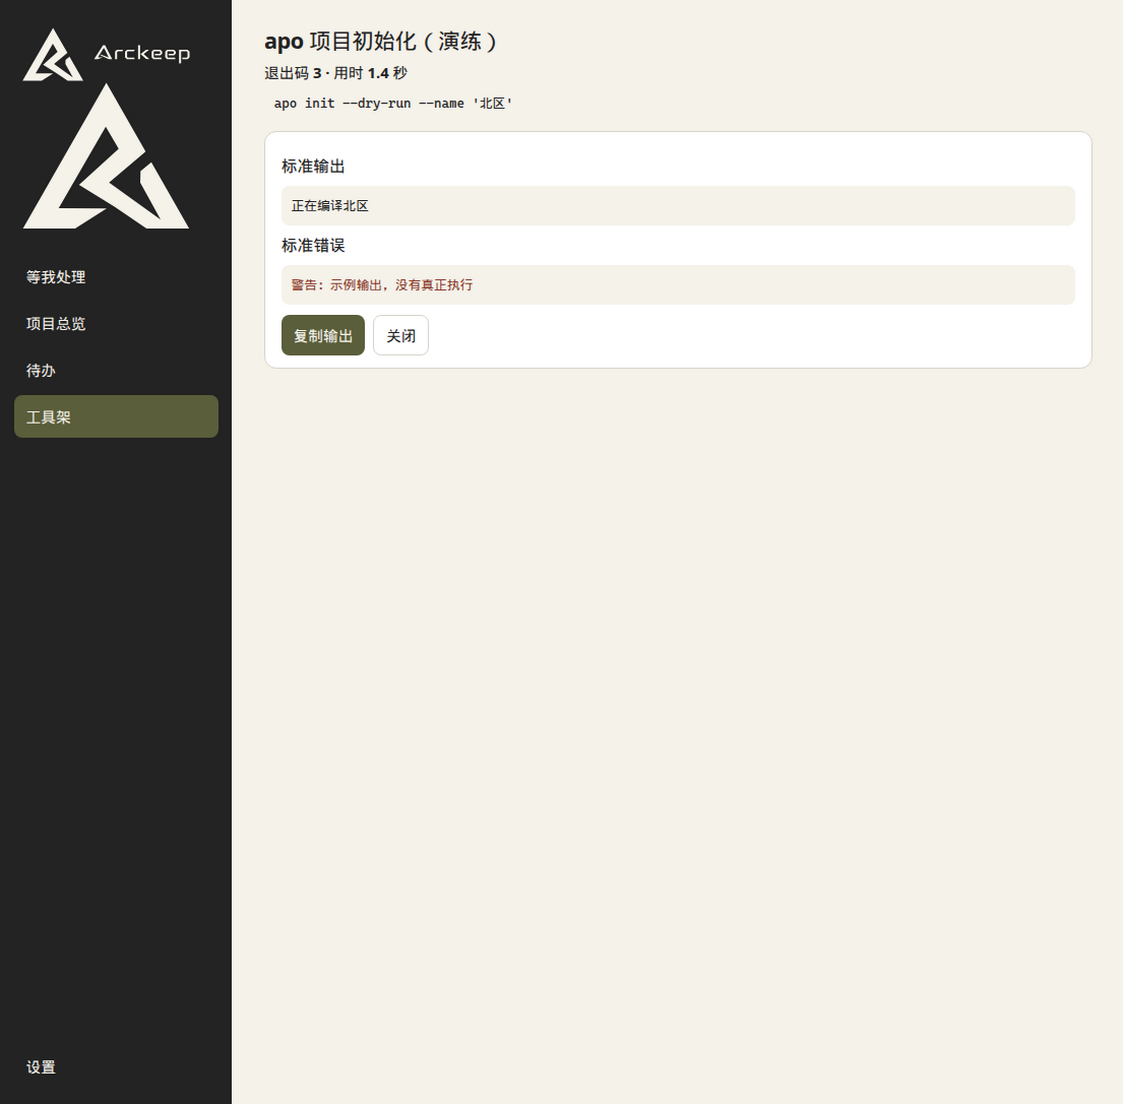
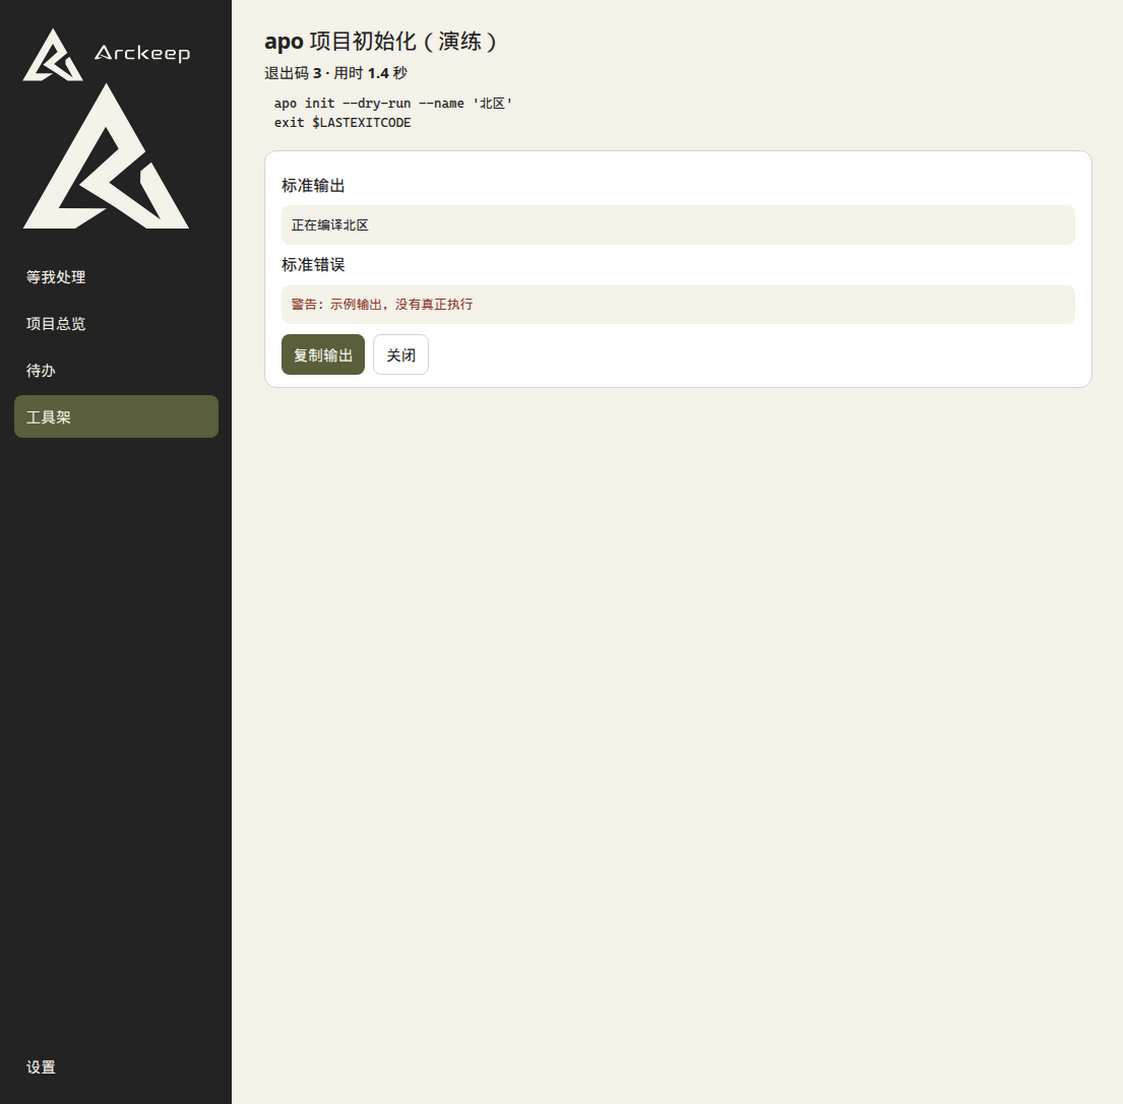
Fix Windows PowerShell quote passing and exit codes
Windows PowerShell 5.1 turns a native argument of one double quote into an empty argv entry, and powershell.exe reports native failures as exit code 1. Quote those values as CommandLineToArgvW tokens, run the readable script with -EncodedCommand, and finish with exit $LASTEXITCODE. Live tests cover powershell.exe and pwsh when pwsh is installed.

Changed region(s): [[0.2493, 0.0924, 0.4363, 0.3388]]

diff --git a/test/tool-runner.test.ts b/test/tool-runner.test.ts
@@ -1,4 +1,4 @@
-import { spawn } from 'node:child_process'
+import { spawn, spawnSync } from 'node:child_process'
 import { existsSync, mkdtempSync, readFileSync, rmSync, writeFileSync } from 'node:fs'
 import { tmpdir } from 'node:os'
 import path from 'node:path'
@@ -106,9 +106,30 @@ function expectedData(shell: ShellKind, payload: string): string {
   return out
 }
 
-async function assertPayloadIsData(shell: ShellKind, payload: string, marker: string): Promise<void> {
+function windowsPowerShellHosts(): string[] {
+  const hosts = ['powershell.exe']
+  const found = spawnSync('where.exe', ['pwsh'], { encoding: 'utf8', windowsHide: true })
+  if (found.status !== 0) return hosts
+  for (const line of found.stdout.split(/\r?\n/)) {
+    const file = line.trim()
+    if (!file || hosts.some(host => host.toLowerCase() === file.toLowerCase())) continue
+    const probe = spawnSync(file, ['-NoProfile', '-NonInteractive', '-Command', 'exit 0'], {
+      windowsHide: true,
+      timeout: 20_000
+    })
+    if (probe.status === 0) hosts.push(file)
+  }
+  return hosts
+}
+
+async function assertPayloadIsData(
+  shell: ShellKind,
+  payload: string,
+  marker: string,
+  env?: NodeJS.ProcessEnv
+): Promise<void> {
   const script = expandCommand(roundTripTemplate, { payload }, shell)
-  const plan = planShell(shell, script)
+  const plan = planShell(shell, script, env)
   const cwd = mkdtempSync(path.join(tmpdir(), 'arckeep-shell-'))
   const result = await runPlan(plan, cwd)
   const detail = `${shell}\n${script}\nstdout=${JSON.stringify(result.stdout)}\nstderr=${JSON.stringify(result.stderr)}\ncode=${result.code} error=${result.error ?? ''}`
@@ -123,24 +144,31 @@ const shells: ShellKind[] = ['cmd', 'powershell', 'git-bash']
 
 describe('live shell injection', () => {
   for (const shell of shells) {
-    const available = shell === 'git-bash'
-      ? resolveBash(process.env, process.platform) !== null && (process.platform !== 'win32' || existsSync(resolveBash(process.env, process.platform) ?? ''))
-      : process.platform === 'win32'
+    const hosts = shell === 'powershell' && process.platform === 'win32' ? windowsPowerShellHosts() : [shell]
+    for (const host of hosts) {
+      const label = shell === 'powershell' && process.platform === 'win32' ? `powershell ${path.basename(host)}` : shell
+      const env = shell === 'powershell' && process.platform === 'win32'
+        ? { ...process.env, ARCKEEP_POWERSHELL: host }
+        : undefined
+      const available = shell === 'git-bash'
+        ? resolveBash(process.env, process.platform) !== null && (process.platform !== 'win32' || existsSync(resolveBash(process.env, process.platform) ?? ''))
+        : process.platform === 'win32'
 
-    it.skipIf(!available)(`${shell} keeps hostile parameters as data`, async () => {
-      for (const [index, build] of hostilePayloads.entries()) {
-        const marker = markerPath(`${shell}-${index}`)
-        await assertPayloadIsData(shell, build(marker), marker)
-      }
-    }, 60_000)
+      it.skipIf(!available)(`${label} keeps hostile parameters as data`, async () => {
+        for (const [index, build] of hostilePayloads.entries()) {
+          const marker = markerPath(`${label}-${index}`)
+          await assertPayloadIsData(shell, build(marker), marker, env)
+        }
+      }, 60_000)
 
-    it.skipIf(!available)(`${shell} reports exit code 3`, async () => {
-      const plan = planShell(shell, 'node -e "process.exit(3)"')
-      const cwd = mkdtempSync(path.join(tmpdir(), 'arckeep-exit-'))
-      const result = await runPlan(plan, cwd)
-      expect(result.code, result.stderr).toBe(3)
-      rmSync(cwd, { recursive: true, force: true })
-    }, 20_000)
+      it.skipIf(!available)(`${label} reports exit code 3`, async () => {
+        const plan = planShell(shell, 'node -e "process.exit(3)"', env)
+        const cwd = mkdtempSync(path.join(tmpdir(), 'arckeep-exit-'))
+        const result = await runPlan(plan, cwd)
+        expect(result.code, `${result.stderr}\n${result.stdout}`).toBe(3)
+        rmSync(cwd, { recursive: true, force: true })
+      }, 20_000)
+    }
   }
 
   it('streams stdout and stderr', async () => {

diff --git a/test/tool-quote.test.ts b/test/tool-quote.test.ts
@@ -2,9 +2,11 @@ import { describe, expect, it } from 'vitest'
 import { createRunGate, expandUrl, formatDuration } from '../src/shared/tools/preview.js'
 import {
   expandCommand,
+  powershellLaunchScript,
   quoteBashArg,
   quoteCmdArg,
-  quotePowerShellArg
+  quotePowerShellArg,
+  windowsNativeArgumentToken
 } from '../src/shared/tools/quote.js'
 
 const samples = [
@@ -16,6 +18,65 @@ const samples = [
   '%PATH%',
   'line\nsecond'
 ]
+
+/** Mirrors Windows PowerShell 5.1 NativeCommandParameterBinder.NeedQuotes + append. */
+function legacyAppend(arg: string): string {
+  if (!arg) return ''
+  let needQuotes = false
+  let followingBackslash = false
+  let quoteCount = 0
+  for (const ch of arg) {
+    if (ch === '"' && !followingBackslash) quoteCount += 1
+    else if (/\s/.test(ch) && quoteCount % 2 === 0) needQuotes = true
+    followingBackslash = ch === '\\'
+  }
+  if (!needQuotes) return arg
+  let extra = ''
+  for (let i = arg.length - 1; i >= 0 && arg[i] === '\\'; i -= 1) extra += '\\'
+  return `"${arg}${extra}"`
+}
+
+/** CommandLineToArgvW for one already-split command line (no program name). */
+function commandLineToArgv(commandLine: string): string[] {
+  const args: string[] = []
+  let i = 0
+  while (i < commandLine.length) {
+    while (commandLine[i] === ' ' || commandLine[i] === '\t') i += 1
+    if (i >= commandLine.length) break
+    let current = ''
+    let inQuotes = false
+    while (i < commandLine.length) {
+      let slashes = 0
+      while (commandLine[i] === '\\') {
+        slashes += 1
+        i += 1
+      }
+      if (commandLine[i] === '"') {
+        current += '\\'.repeat(Math.floor(slashes / 2))
+        if (slashes % 2 === 0) {
+          if (inQuotes && commandLine[i + 1] === '"') {
+            current += '"'
+            i += 2
+            continue
+          }
+          inQuotes = !inQuotes
+        } else {
+          current += '"'
+        }
+        i += 1
+        continue
+      }
+      current += '\\'.repeat(slashes)
+      if (i >= commandLine.length) break
+      const ch = commandLine[i]
+      if (!inQuotes && (ch === ' ' || ch === '\t')) break
+      current += ch
+      i += 1
+    }
+    args.push(current)
+  }
+  return args
+}
 
 describe('shell quoting', () => {
   it('quotes cmd metacharacters as data', () => {
@@ -32,12 +93,30 @@ describe('shell quoting', () => {
   it('quotes PowerShell with single quotes', () => {
     expect(quotePowerShellArg('& echo pwned')).toBe("'& echo pwned'")
     expect(quotePowerShellArg('; rm -rf x')).toBe("'; rm -rf x'")
-    expect(quotePowerShellArg('"')).toBe(`'"'`)
+    expect(quotePowerShellArg('"')).toBe(`'"\\""'`)
     expect(quotePowerShellArg('$(whoami)')).toBe("'$(whoami)'")
     expect(quotePowerShellArg('`whoami`')).toBe("'`whoami`'")
     expect(quotePowerShellArg('%PATH%')).toBe("'%PATH%'")
     expect(quotePowerShellArg("line\nsecond")).toBe("'line\nsecond'")
     expect(quotePowerShellArg("it's")).toBe("'it''s'")
+    expect(powershellLaunchScript('apo init --name \'demo\'')).toBe("apo init --name 'demo'\nexit $LASTEXITCODE")
+    expect(powershellLaunchScript('apo init', 'pwsh.exe')).toBe(
+      "$PSNativeCommandArgumentPassing = 'Legacy'\napo init\nexit $LASTEXITCODE"
+    )
+    expect(powershellLaunchScript(powershellLaunchScript('apo init', 'pwsh'), 'powershell.exe')).toBe(
+      'apo init\nexit $LASTEXITCODE'
+    )
+  })
+
+  it('keeps a literal double quote through the Windows PowerShell 5.1 native binder', () => {
+    for (const value of ['"', 'a "b', 'say "hello"', '""', 'trail\\', 'a\\" b']) {
+      const quoted = quotePowerShellArg(value)
+      expect(quoted.startsWith("'") && quoted.endsWith("'")).toBe(true)
+      const embedded = quoted.slice(1, -1).replace(/''/g, "'")
+      const commandLine = legacyAppend(embedded)
+      expect(commandLineToArgv(commandLine), value).toEqual([value])
+    }
+    expect(windowsNativeArgumentToken('"')).toBe('"\\""')
   })
 
   it('quotes bash with single quotes', () => {

diff --git a/src/shared/tools/quote.ts b/src/shared/tools/quote.ts
@@ -33,9 +33,70 @@ export function quoteCmdArg(value: string): string {
   return `"${body}"`
 }
 
+/**
+ * Windows PowerShell 5.1 appends a native argument as raw command-line text.
+ * A value whose only character is `"` is appended as `"`, and CommandLineToArgvW
+ * reads that as an empty argument. Emit a token the legacy binder copies through
+ * unchanged (`NeedQuotes` is false) and that CommandLineToArgvW parses back to
+ * the original value. pwsh must run with `$PSNativeCommandArgumentPassing = 'Legacy'`
+ * or it would pass this token through ArgumentList literally.
+ */
+export function windowsNativeArgumentToken(value: string): string {
+  if (value.length === 0) return '""'
+  let quote = false
+  for (const ch of value) {
+    if (ch === ' ' || ch === '\t' || ch === '\n' || ch === '\r' || ch === '"') {
+      quote = true
+      break
+    }
+  }
+  if (!quote) return value
+  let out = '"'
+  let backslashes = 0
+  for (const ch of value) {
+    if (ch === '\\') {
+      backslashes += 1
+      continue
+    }
+    if (ch === '"') {
+      out += '\\'.repeat(backslashes * 2 + 1)
+      out += '"'
+      backslashes = 0
+      continue
+    }
+    if (backslashes > 0) {
+      out += '\\'.repeat(backslashes)
+      backslashes = 0
+    }
+    out += ch
+  }
+  if (backslashes > 0) out += '\\'.repeat(backslashes * 2)
+  out += '"'
+  return out
+}
+
+const POWERSHELL_LEGACY_LINE = "$PSNativeCommandArgumentPassing = 'Legacy'"
+const POWERSHELL_EXIT_LINE = 'exit $LASTEXITCODE'
+
+/** Human-readable script that powershell.exe / pwsh actually executes. */
+export function powershellLaunchScript(userScript: string, executable = 'powershell.exe'): string {
+  const exitSuffix = `\n${POWERSHELL_EXIT_LINE}`
+  const legacyPrefix = `${POWERSHELL_LEGACY_LINE}\n`
+  let body = userScript
+  if (body.endsWith(exitSuffix)) {
+    body = body.slice(0, -exitSuffix.length)
+    if (body.startsWith(legacyPrefix)) body = body.slice(legacyPrefix.length)
+  }
+  const base = executable.replace(/^.*[\\/]/, '').toLowerCase()
+  const core = base === 'pwsh' || base === 'pwsh.exe'
+  return `${core ? legacyPrefix : ''}${body}${exitSuffix}`
+}
+
 /** PowerShell single-quoted string. Only `'` is special, and it is doubled. */
 export function quotePowerShellArg(value: string): string {
-  return `'${value.replace(/\0/g, '').replace(/'/g, "''")}'`
+  const cleaned = value.replace(/\0/g, '')
+  const embedded = cleaned.includes('"') ? windowsNativeArgumentToken(cleaned) : cleaned
+  return `'${embedded.replace(/'/g, "''")}'`
 }
 
 /** Bash single-quoted string. Embedded quotes use the `'\''` break. */

diff --git a/test/tool-validate.test.ts b/test/tool-validate.test.ts
@@ -3,6 +3,7 @@ import { describe, expect, it } from 'vitest'
 import { toolShelfExampleText } from '../src/main/tool-assets.js'
 import { validateToolShelfText } from '../src/main/tool-validate.js'
 import { indexToLocation } from '../src/shared/tools/locate.js'
+import { powershellLaunchScript } from '../src/shared/tools/quote.js'
 import { buildPreview } from '../src/shared/tools/preview.js'
 import { cmdScriptFromPlan, planShell, powershellScriptFromPlan } from '../src/main/tool-launch.js'
 
@@ -24,7 +25,7 @@ describe('tool shelf schema', () => {
     expect(text).toContain('apo init --dry-run')
     const apo = result.config.actions[2]
     const preview = buildPreview(apo, { cwd: 'C:\\work\\demo', name: 'demo' }, 'C:\\work\\demo')
-    expect(preview.text).toBe("apo init --dry-run --name 'demo'")
+    expect(preview.text).toBe(powershellLaunchScript("apo init --dry-run --name 'demo'"))
     expect(preview.shell).toBe('powershell')
     const onDisk = readFileSync(new URL('../schema/tool-shelf.example.json', import.meta.url), 'utf8')
     expect(onDisk).toBe(text)
@@ -76,8 +77,20 @@ describe('launch plan matches the preview script', () => {
   it('passes the PowerShell script through EncodedCommand unchanged', () => {
     const script = "apo init --dry-run --name 'demo'"
     const plan = planShell('powershell', script, {}, 'win32')
-    expect(powershellScriptFromPlan(plan)).toBe(script)
-    expect(plan.args.slice(0, 3)).toEqual(['-NoProfile', '-NonInteractive', '-EncodedCommand'])
+    expect(powershellScriptFromPlan(plan)).toBe(powershellLaunchScript(script))
+    expect(plan.args.slice(0, 5)).toEqual([
+      '-NoProfile',
+      '-NonInteractive',
+      '-ExecutionPolicy',
+      'Bypass',
+      '-EncodedCommand'
+    ])
+    const core = planShell('powershell', script, { ARCKEEP_POWERSHELL: 'pwsh.exe' }, 'win32')
+    expect(core.file).toBe('pwsh.exe')
+    expect(powershellScriptFromPlan(core)).toBe(powershellLaunchScript(script, 'pwsh.exe'))
+    expect(powershellScriptFromPlan(planShell('powershell', powershellLaunchScript(script), {}, 'win32'))).toBe(
+      powershellScriptFromPlan(plan)
+    )
   })
 
   it('wraps the cmd script once for /d /s /c', () => {

diff --git a/src/main/tool-launch.ts b/src/main/tool-launch.ts
@@ -1,4 +1,5 @@
 import { existsSync } from 'node:fs'
+import { powershellLaunchScript } from '../shared/tools/quote.js'
 import type { ShellKind } from '../shared/tools/types.js'
 
 export interface ShellPlan {
@@ -38,12 +39,14 @@ export function planShell(
     }
   }
   if (shell === 'powershell') {
-    const encoded = Buffer.from(script, 'utf16le').toString('base64')
+    const file = env.ARCKEEP_POWERSHELL?.trim() || 'powershell.exe'
+    const runnable = powershellLaunchScript(script, file)
+    const encoded = Buffer.from(runnable, 'utf16le').toString('base64')
     return {
       shell,
-      script,
-      file: 'powershell.exe',
-      args: ['-NoProfile', '-NonInteractive', '-EncodedCommand', encoded],
+      script: runnable,
+      file,
+      args: ['-NoProfile', '-NonInteractive', '-ExecutionPolicy', 'Bypass', '-EncodedCommand', encoded],
       windowsVerbatimArguments: false
     }
   }
@@ -59,7 +62,8 @@ export function planShell(
 }
 
 export function powershellScriptFromPlan(plan: ShellPlan): string {
-  const encoded = plan.args[3]
+  const index = plan.args.indexOf('-EncodedCommand')
+  const encoded = index >= 0 ? plan.args[index + 1] : undefined
   if (!encoded) throw new Error('缺少 EncodedCommand')
   return Buffer.from(encoded, 'base64').toString('utf16le')
 }

diff --git a/src/shared/tools/preview.ts b/src/shared/tools/preview.ts
@@ -1,4 +1,4 @@
-import { assertPlaceholders, expandCommand, expandRaw } from './quote.js'
+import { assertPlaceholders, expandCommand, expandRaw, powershellLaunchScript } from './quote.js'
 import type { ActionPreview, ToolAction } from './types.js'
 
 export function formatDuration(ms: number): string {
@@ -54,7 +54,8 @@ function displayArgv(argv: string[]): string {
 export function buildPreview(
   action: ToolAction,
   input: Readonly<Record<string, string>>,
-  baseCwd: string
+  baseCwd: string,
+  powershellExecutable = 'powershell.exe'
 ): ActionPreview {
   const params = collectParams(action, input)
   if (action.type === 'open-url') {
@@ -96,7 +97,7 @@ export function buildPreview(
     actionId: action.id,
     title: action.title,
     type: action.type,
-    text: script,
+    text: action.shell === 'powershell' ? powershellLaunchScript(script, powershellExecutable) : script,
     shell: action.shell,
     cwd
   }

diff --git a/src/main/screenshot-tools.ts b/src/main/screenshot-tools.ts
@@ -1,5 +1,6 @@
 import type { ToolFixture } from '../shared/tools/fixture.js'
 import { buildPreview, formatDuration } from '../shared/tools/preview.js'
+import { powershellLaunchScript } from '../shared/tools/quote.js'
 import type { ToolAction } from '../shared/tools/types.js'
 import { validateToolShelfText } from './tool-validate.js'
 
@@ -167,7 +168,7 @@ export function buildToolFixture(scene: string): ToolFixture | null {
       shellLabel: 'PowerShell'
     }
   }
-  const command = "apo init --dry-run --name '北区'"
+  const command = powershellLaunchScript("apo init --dry-run --name '北区'")
   const lines = [
     { stream: 'stdout' as const, text: '正在编译北区' },
     { stream: 'stderr' as const, text: '警告：示例输出，没有真正执行' }

diff --git a/src/main/tool-request.ts b/src/main/tool-request.ts
@@ -32,7 +32,7 @@ export function previewStoredAction(
   if (!validated.ok) throw new Error(validated.error)
   const action = validated.config.actions.find(item => item.id === actionId)
   if (!action) throw new Error('没有这个动作')
-  const preview = buildPreview(action, params, baseCwd)
+  const preview = buildPreview(action, params, baseCwd, process.env.ARCKEEP_POWERSHELL || 'powershell.exe')
   if (preview.cwd) preview.cwd = path.resolve(preview.cwd)
   return preview
 }
